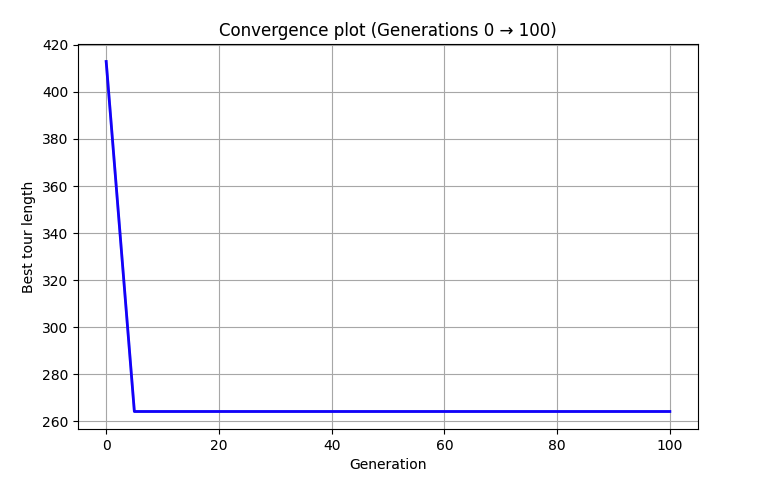
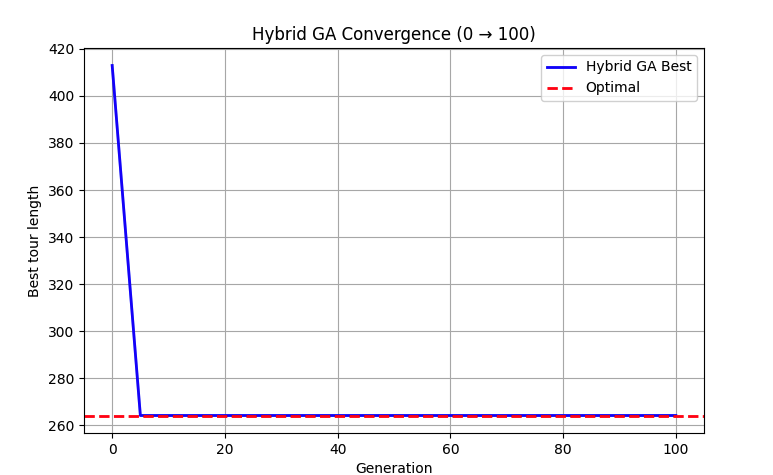
best lenght

diff --git a/hybridGa.py b/hybridGa.py
@@ -1,5 +1,6 @@
 import random
 import math
+import itertools
 import matplotlib.pyplot as plt
 
 # ============================
@@ -18,13 +19,7 @@ def distance_matrix(coords):
     return dist
 
 def tour_length(tour, dist):
-    total = 0.0
-    n = len(tour)
-    for i in range(n):
-        a = tour[i]
-        b = tour[(i + 1) % n]
-        total += dist[a][b]
-    return total
+    return sum(dist[tour[i]][tour[(i+1)%len(tour)]] for i in range(len(tour)))
 
 def fitness(tour, dist):
     L = tour_length(tour, dist)
@@ -46,9 +41,9 @@ def tournament_selection(population, fitnesses, k=3):
 
 def order_crossover(p1, p2):
     size = len(p1)
-    c1 = [None]*size
-    c2 = [None]*size
+    c1, c2 = [None]*size, [None]*size
     i, j = sorted(random.sample(range(size), 2))
+
     c1[i:j+1] = p1[i:j+1]
     c2[i:j+1] = p2[i:j+1]
 
@@ -57,7 +52,8 @@ def order_crossover(p1, p2):
         for gene in parent:
             if gene not in child:
                 child[pos] = gene
-                pos = (pos + 1) % size
+                pos = (pos+1) % size
+
     fill(c1, p2)
     fill(c2, p1)
     return c1, c2
@@ -71,7 +67,7 @@ def swap_mutation(tour, pm):
 # ----- Local Search: 2-opt -----
 def two_opt(tour, dist):
     best = tour[:]
-    best_len = tour_length(best, dist)
+    best_len = tour_length(tour, dist)
     improved = True
     while improved:
         improved = False
@@ -81,23 +77,41 @@ def two_opt(tour, dist):
                 new_tour[i:j+1] = reversed(new_tour[i:j+1])
                 new_len = tour_length(new_tour, dist)
                 if new_len < best_len:
-                    best = new_tour
-                    best_len = new_len
+                    best, best_len = new_tour, new_len
                     improved = True
     return best
+
+# ============================================
+#     TÍNH GIÁ TRỊ ĐÚNG (BRUTE FORCE)
+# ============================================
+def compute_optimal_solution(n_cities, dist):
+    print("\n>>> Đang brute-force... ")
+    best_len = float("inf")
+    best_tour = None
+
+    for perm in itertools.permutations(range(n_cities)):
+        L = tour_length(perm, dist)
+        if L < best_len:
+            best_len = L
+            best_tour = perm
+
+    print(">>> Optimal length =", best_len)
+    print(">>> Optimal tour   =", best_tour)
+    return best_len, best_tour
 
 # ----- Hybrid GA chính -----
 def hybrid_ga_tsp(coords, pop_size=80, generations=400, pc=0.9, pm=0.2,
                   tournament_k=3, local_search_rate=1.0, verbose=True,
                   max_plot_gen=100, convergence_interval=5):
-    """
-    max_plot_gen: số thế hệ tối đa muốn hiển thị trên sơ đồ hội tụ
-    convergence_interval: lưu best mỗi n thế hệ
-    """
+
     n_cities = len(coords)
     dist = distance_matrix(coords)
-    population = [random_tour(n_cities) for _ in range(pop_size)]
 
+    # ======= TÍNH NGHIỆM ĐÚNG TRƯỚC =======
+    optimal_len, optimal_tour = compute_optimal_solution(n_cities, dist)
+
+    # ======= KHỞI TẠO QUẦN THỂ =======
+    population = [random_tour(n_cities) for _ in range(pop_size)]
     best_tour = None
     best_len = float("inf")
     convergence = []
@@ -106,14 +120,14 @@ def hybrid_ga_tsp(coords, pop_size=80, generations=400, pc=0.9, pm=0.2,
     for gen in range(generations):
         fitnesses = [fitness(t, dist) for t in population]
 
-        # Cập nhật best hiện tại
+        # Cập nhật best
         for t in population:
             L = tour_length(t, dist)
             if L < best_len:
                 best_len = L
                 best_tour = t[:]
 
-        # Lưu best length cho sơ đồ hội tụ nếu gen ≤ max_plot_gen
+        # Thu thập dữ liệu hội tụ
         if gen <= max_plot_gen and (gen % convergence_interval == 0 or gen == max_plot_gen):
             convergence.append(best_len)
             gen_list.append(gen)
@@ -126,17 +140,12 @@ def hybrid_ga_tsp(coords, pop_size=80, generations=400, pc=0.9, pm=0.2,
             p1 = tournament_selection(population, fitnesses, k=tournament_k)
             p2 = tournament_selection(population, fitnesses, k=tournament_k)
 
-            if random.random() < pc:
-                c1, c2 = order_crossover(p1, p2)
-            else:
-                c1, c2 = p1[:], p2[:]
-
-            c1 = swap_mutation(c1, pm)
-            c2 = swap_mutation(c2, pm)
+            c1, c2 = (order_crossover(p1, p2) if random.random() < pc else (p1[:], p2[:]))
+            c1, c2 = swap_mutation(c1, pm), swap_mutation(c2, pm)
 
             if random.random() < local_search_rate:
                 c1 = two_opt(c1, dist)
-            if len(new_pop) + 1 < pop_size and random.random() < local_search_rate:
+            if len(new_pop)+1 < pop_size and random.random() < local_search_rate:
                 c2 = two_opt(c2, dist)
 
             new_pop.append(c1)
@@ -145,29 +154,32 @@ def hybrid_ga_tsp(coords, pop_size=80, generations=400, pc=0.9, pm=0.2,
 
         population = new_pop
 
-    if verbose:
-        print("===== KẾT QUẢ CUỐI CÙNG =====")
-        print("Best tour:   ", best_tour)
-        print("Best length: ", best_len)
+    # ======= HIỂN THỊ KẾT QUẢ =======
+    print("\n===== KẾT QUẢ CUỐI CÙNG =====")
+    print("Best GA tour:   ", best_tour)
+    print("Best GA length: ", best_len)
 
-    # Vẽ sơ đồ hội tụ cho thế hệ 0 → max_plot_gen
+    # ======= VẼ SƠ ĐỒ HỘI TỤ =======
     plt.figure(figsize=(8,5))
-    plt.plot(gen_list, convergence, 'b-', linewidth=2)
+    plt.plot(gen_list, convergence, 'b-', linewidth=2, label="Hybrid GA Best")
+    plt.axhline(optimal_len, color='red', linestyle='--', linewidth=2, label="Optimal")
     plt.xlabel("Generation")
     plt.ylabel("Best tour length")
-    plt.title(f"Convergence plot (Generations 0 → {max_plot_gen})")
+    plt.title(f"Hybrid GA Convergence (0 → {max_plot_gen})")
     plt.grid(True)
+    plt.legend()
     plt.show()
 
-    return best_tour, best_len
+    return best_tour, best_len, optimal_len
+
 
 # ----- Chạy thử -----
 if __name__ == "__main__":
     random.seed(42)
-    n_cities = 10
+    n_cities = 10       # brute-force tốt nhất là n <= 10
     coords = [(random.uniform(0, 100), random.uniform(0, 100)) for _ in range(n_cities)]
 
-    best_tour, best_len = hybrid_ga_tsp(
+    best_tour, best_len, optimal = hybrid_ga_tsp(
         coords,
         pop_size=80,
         generations=400,
@@ -176,6 +188,6 @@ if __name__ == "__main__":
         tournament_k=3,
         local_search_rate=1.0,
         verbose=True,
-        max_plot_gen=100,       # chỉ hiển thị 0 → 100
-        convergence_interval=5  # lưu mỗi 5 thế hệ
+        max_plot_gen=100,
+        convergence_interval=5
     )
